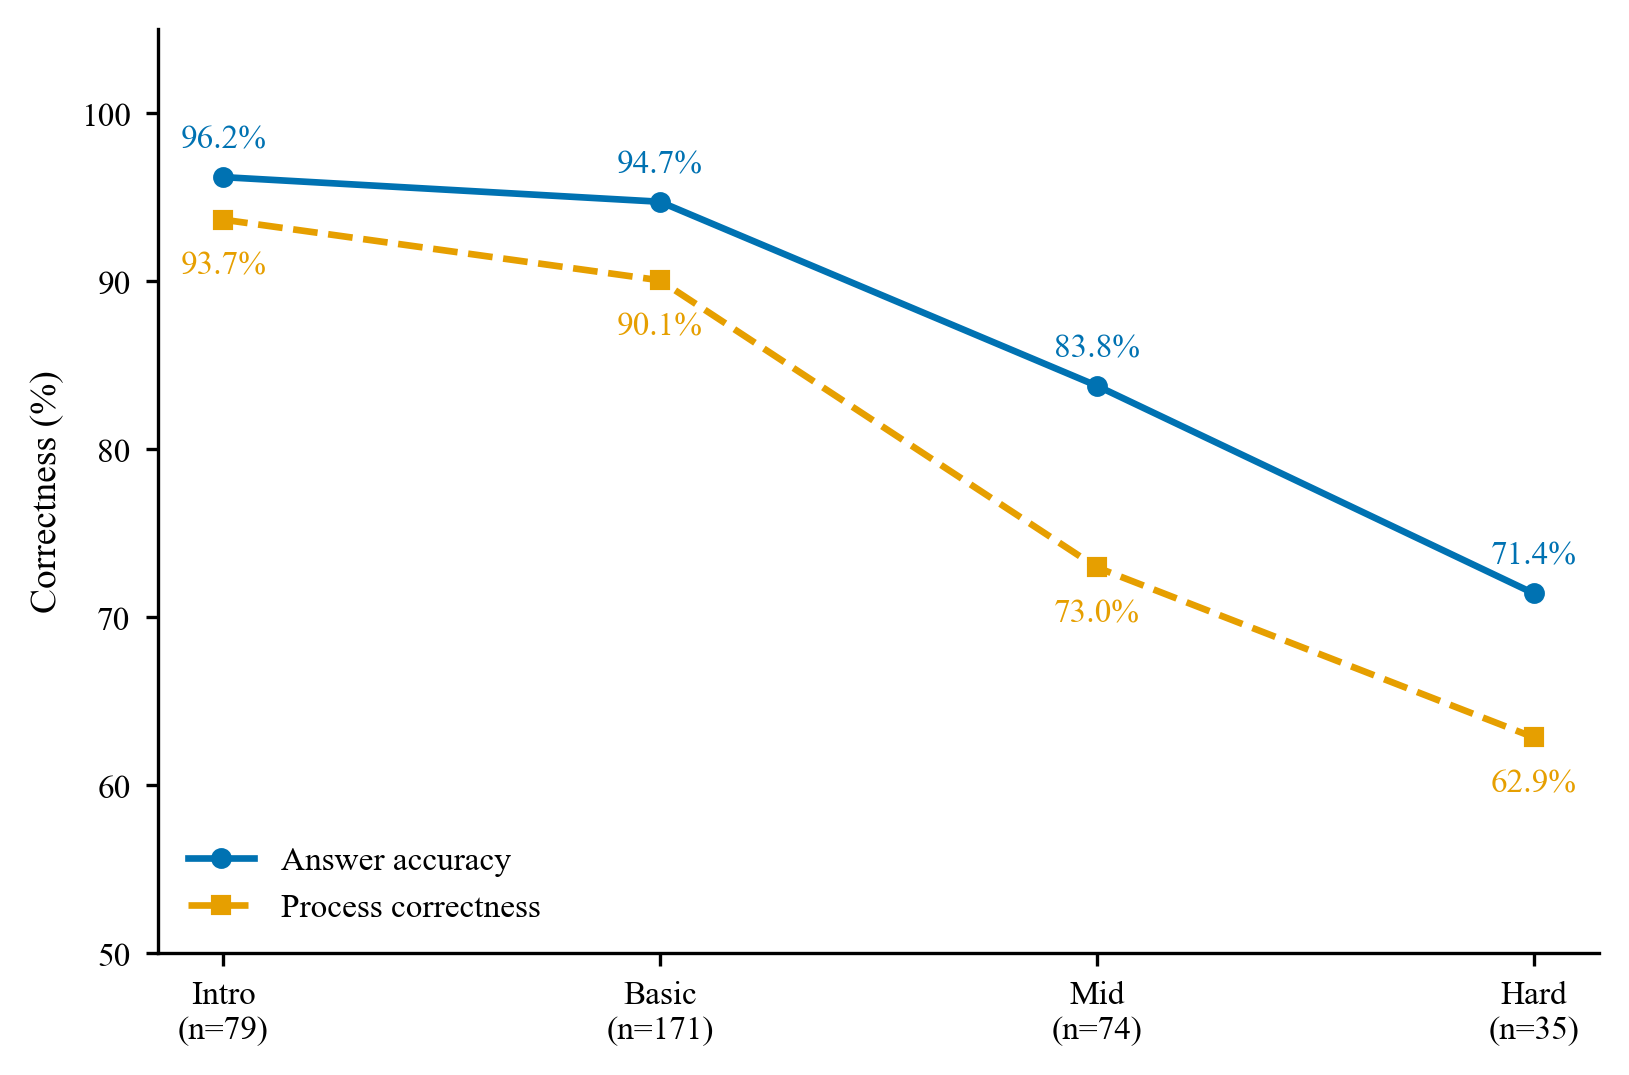
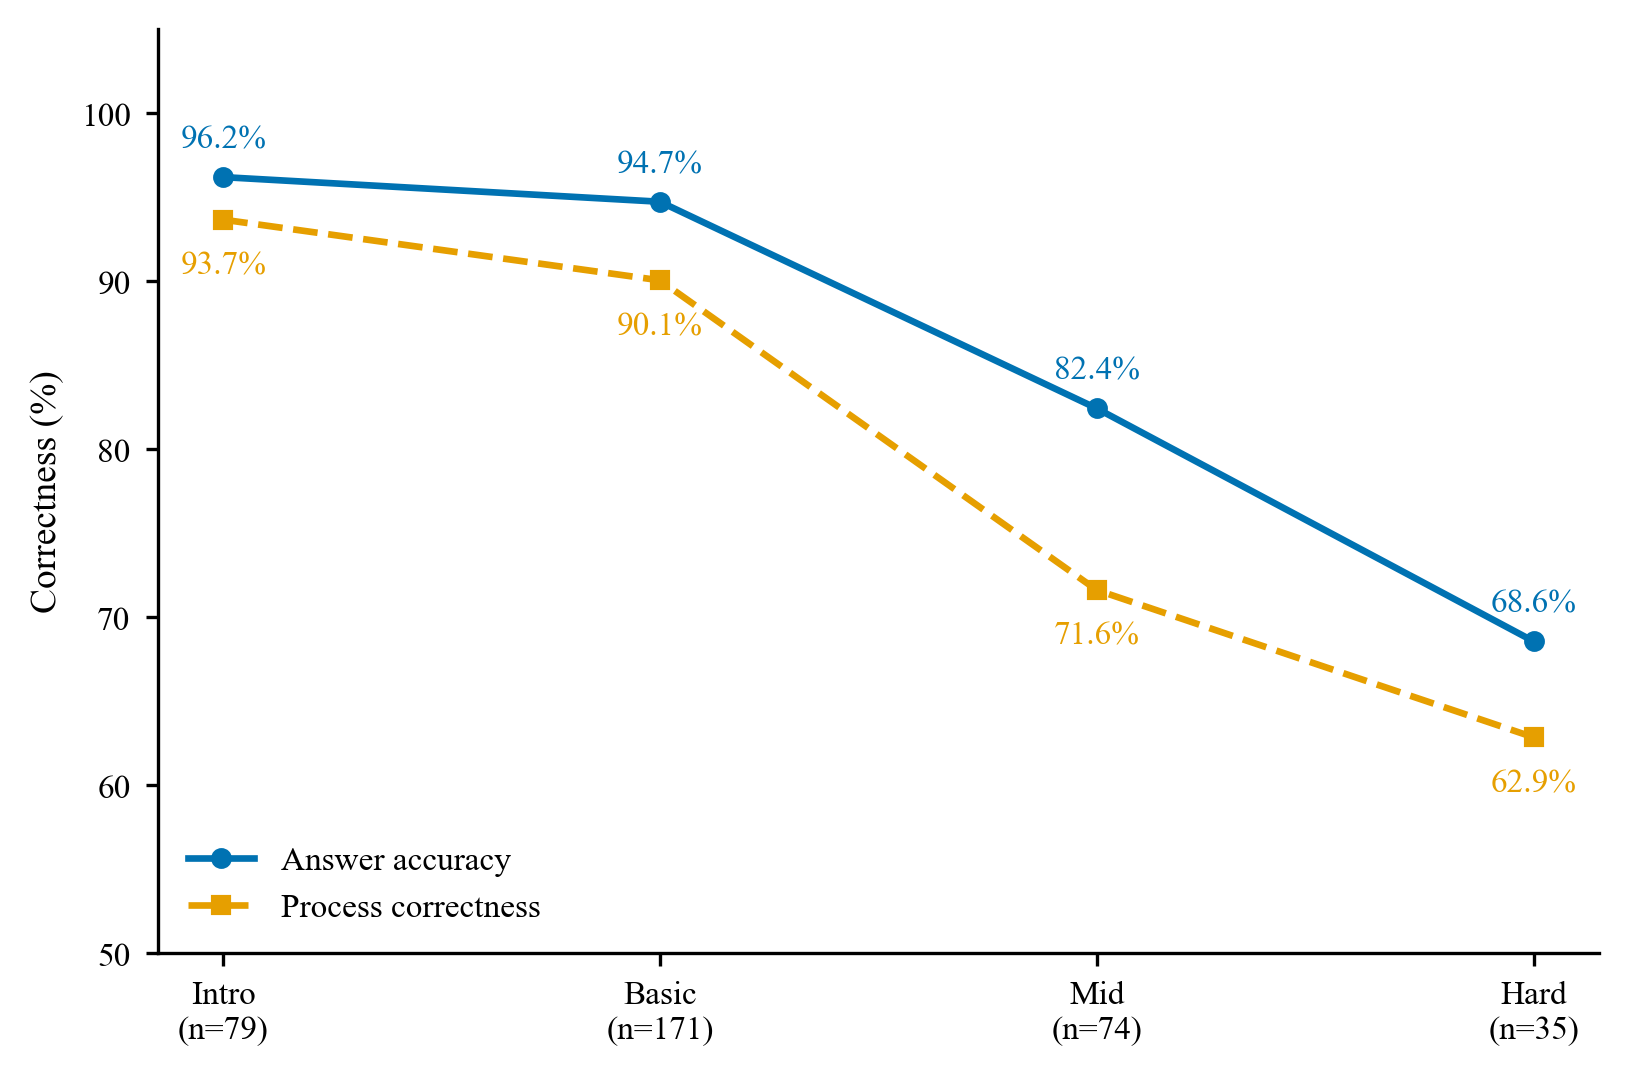
fix(dataset,report): 修正补充 hidden 时回流的非法用例并同步答案口径
- 脚本表修复 3 处历史遗留错误条目（abc341_d 的 N=M 非法输入、abc274_d 缺 Y 字段、abc310_d 的 M 与配对数不符）；此前修复只落到题集未同步脚本表，重跑生成时回流
- 题集剔除 4 条非法 hidden，补入 2 条合法边界；全库 359 题仍全部含 hidden（647→1017）
- 只用同一次求解的模型代码在其新增 hidden 上重跑（补充只会加严）：仅 A1169(abc383_e)、C2063(cf1868c) 答案由对转错；过程评估不重跑，仅按确定性规则同步 verdict
- 报告口径：答案 90.5%→90.0%、过程 84.7%→84.4%，分平台/分层/难度分档同步；§6 抽检与 §8 类别细表标注为 2026-09-09 基线快照；fig1 重绘

diff --git a/scripts/gen_hidden_cases.py b/scripts/gen_hidden_cases.py
@@ -179,11 +179,12 @@ BOUNDARY_INPUTS: dict[str, list[str]] = {
         "3\na\nab\nabc",
         "4\nabc\nabd\nabe\nabf",
     ],
-    # DFS 划分: 单成员 / T=N / T=1
+    # DFS 划分: 单成员 / T=N / T=1 / M=2 两对
     "abc310_d": [
         "3 3 0",
         "4 1 0",
-        "3 2 2\n1 2",
+        "3 2 1\n1 2",
+        "3 2 2\n1 2\n1 3",
     ],
     # 组合计数: 全同 / 小 N
     "abc318_e": [
@@ -250,8 +251,8 @@ BOUNDARY_INPUTS: dict[str, list[str]] = {
     "abc314_e": ["1 1\n1 1 1", "2 2\n1 1 2\n1 1 1"],
     # 252_d: 不同三元组计数
     "abc252_d": ["3\n1 1 1", "4\n1 2 3 4"],
-    # 274_d: 折线可达
-    "abc274_d": ["2 3\n1 1", "3 5\n1 1 1"],
+    # 274_d: 折线可达（格式 N X Y / 随后 N 个步长）
+    "abc274_d": ["2 3 1\n1 1", "3 5 1\n1 1 1"],
     # 295_d: 数字串分段（奇偶计数）
     "abc295_d": ["00", "11"],
     # 309_e: 树上保险
@@ -372,8 +373,8 @@ BOUNDARY_INPUTS: dict[str, list[str]] = {
     "abc336_e": ["1", "10", "100000000000000"],
     # 338_d Island Tour: 最小环
     "abc338_d": ["3 2\n1 2", "4 3\n1 2 3"],
-    # 341_d Only one of two: 最小
-    "abc341_d": ["1 1 1", "2 3 5"],
+    # 341_d Only one of two: 最小（N≠M 为题设约束，禁止 N=M）
+    "abc341_d": ["1 100000000 10000000000", "1 99999999 100000000"],
     # 346_d Gomamayo: 最短串
     "abc346_d": ["2\n11\n1 2", "2\n01\n1 2"],
     # 357_d 88888888: 最小

diff --git a/reports/TASK2_REPORT_DRAFT.md b/reports/TASK2_REPORT_DRAFT.md
@@ -44,7 +44,7 @@
 1. **自动一致性**：每条 hidden 用当前参考解重跑并与期望比对（SPECIAL 题经 checker 验证），防止参考解改写后期望过期；
 2. **逐题约束核对**：对照题面 Constraints 逐条检查 hidden 输入的合法性（数值范围、互斥条件、结构约束）。
 
-全量复核 647 条 hidden 后修复 17 条违反题面约束的用例（详见 `reports/REPORT.md` 附录 B.4.4 与 `reports/PROCESS_EVAL_METHOD.md` §4.4），生成脚本的 BOUNDARY 清单已同步修正。修复实证表明此类坏用例确实会"错杀"正确解——回验确认 A1124/A1155/C2011 三题模型在合法输入域全对、原答案判定 False 完全由非法 hidden 造成，修复后恢复 True；其余清除坏用例的题目判定前后一致，唯一例外 A1016（模型代码编译失败）为真实实现错误、与 hidden 无关。2026-09-10 进一步补齐原先缺 hidden 的题目（ABC 13 / CF 129），两平台 359 题现已全部含 hidden 用例（hidden 总数 647→1019，新增用例经参考解一致性与 checker 判定复核）。
+全量复核 647 条 hidden 后修复 17 条违反题面约束的用例（详见 `reports/REPORT.md` 附录 B.4.4 与 `reports/PROCESS_EVAL_METHOD.md` §4.4），生成脚本的 BOUNDARY 清单已同步修正。修复实证表明此类坏用例确实会"错杀"正确解——回验确认 A1124/A1155/C2011 三题模型在合法输入域全对、原答案判定 False 完全由非法 hidden 造成，修复后恢复 True；其余清除坏用例的题目判定前后一致，唯一例外 A1016（模型代码编译失败）为真实实现错误、与 hidden 无关。2026-09-10 进一步补齐原先缺 hidden 的题目（ABC 13 / CF 129），两平台 359 题现已全部含 hidden 用例（hidden 总数 647→1017，新增用例经参考解一致性与 checker 判定复核；同一次求解的模型代码在新用例上重跑后，2 题答案由对转错）。
 
 ### 3.3 难度分层
 
